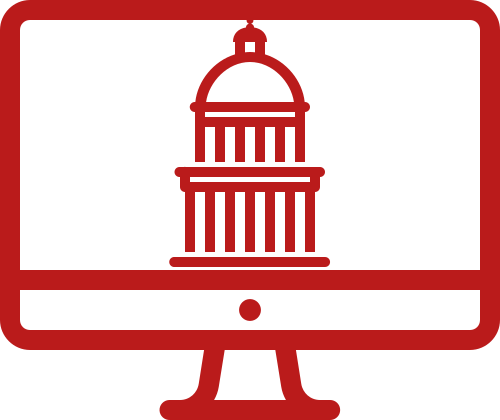
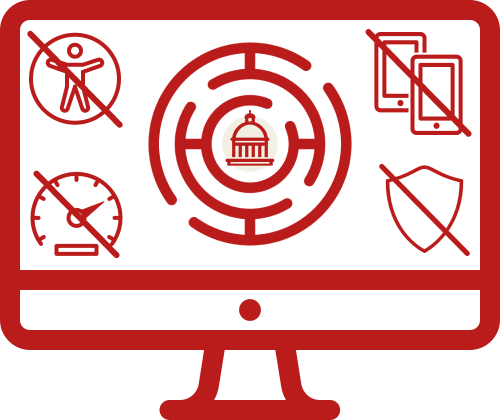
changed intro

diff --git a/index.html b/index.html
@@ -116,13 +116,13 @@
       </div>
     </div>
     <div class="row failures">
-      <div class="col noIcons"><img src="images/noMobile.png"><img src="images/noSecurity.png"></div>
+      <div class="col noIcons"></div>
       <div class="col-lg-9" >
         <img src="images/fedWebsite.png">
-        <h4>Most Federal Websites Fail to Meet Benchmark UX Standards</h4>
-    According to <a href="https://itif.org/publications/2017/03/08/92-percent-most-popular-federal-government-websites-fail-meet-basic/" target="_blank">an Information Technology and Innovation Foundation (ITIF) 2017 report</a>, 92 percent of the most popular federal government websites <i>fail to meet basic standards for security, speed, mobile friendliness, or accessibility</i>. Of the 297 most popular federal websites reviewed, the Department of Labor ranked 180 with an overall score of 70.4. Authors Alan McQuinn and Daniel Castro concluded that federal websites "still have a long way to go … to match the performance of the best-in-class private-sector websites." They also conceded that the federal government is infamous for its sluggish pace in IT modernization; the current DOL website is a typical example. This case study explores the challenges users still experience and chronicles the development of a solution that will help users <i>get something done</i> there more quickly and effortlessly.</p>
+        <h4>Most federal websites are labyrinthian hindrances </h4>
+        Visitors to federal websites simply want to access specific information and services quickly and easily. What they encounter instead are bloated labyrinths of link farms and disorientating navigation. Further hindrances involve security, speed, mobile friendliness, and accessibility; <i>92 percent of the most popular federal websites fail to meet usability benchmarks</i>, according to an<a href="https://itif.org/publications/2017/03/08/92-percent-most-popular-federal-government-websites-fail-meet-basic/" target="_blank"> Information Technology and Innovation Foundation (ITIF) 2017 report</a>. Of the 297 most popular federal websites reviewed, the Department of Labor ranked 180 with an overall score of 70.4.</p>
       </div>
-      <div class="col noIcons"><img src="images/noSpeed.png"><img src="images/noAccessibility.png"></div>
+      <div class="col noIcons"></div>
     </div>
   </div>
 </section>
@@ -152,7 +152,7 @@
       <div class="col-lg-4 wwud">
         <img src="https://media3.giphy.com/media/3o6ozD4FXYQNv5ERjy/200.gif?cid=5a38a5a2rx2dlo8nrm2m9bs0dijymsqosqi0onpodw6lgakx&amp;rid=200.gif&amp;ct=g" style="border:0;height:184px;width:350px;margin-bottom:2.6% !important;padding: 0 !important;"/>
         <h4>What Would Users Do at DOL?</h4>
-        <p>Visitors to federal websites want to speedily access specific information and services. At the DOL website, the queries may typically involve unemployment insurance, workplace safety, or future probability for certain occupations. For the website usability tests, I defined three activities that will gauge how quickly participants complete each task and reveal challenges they may encounter during their searches: <br>
+        <p> At the DOL website, the queries may typically involve unemployment insurance, workplace safety, or future probability for certain occupations. For the website usability tests, I defined three activities that will gauge how quickly participants complete each task and reveal challenges they may encounter during their searches: <br>
           <ul><li>Find the OSHA page to file a workplace violation complaint form.</li>
           <li>Locate the COBRA form to receive health insurance during unemployment.</li>
           <li>Find out which jobs will be in demand in five-ten years for career-planning before graduating high school or college.</li></ul>
